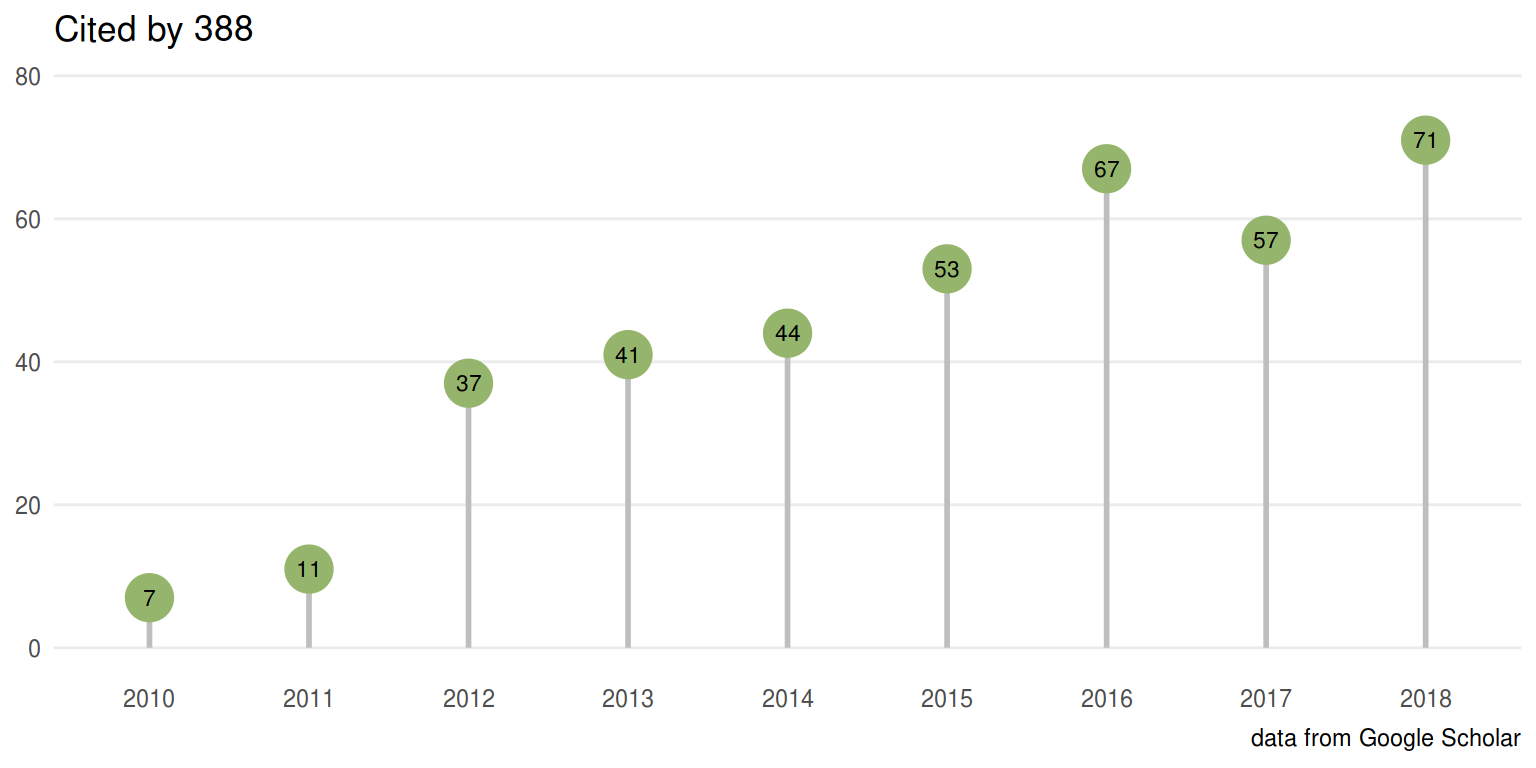
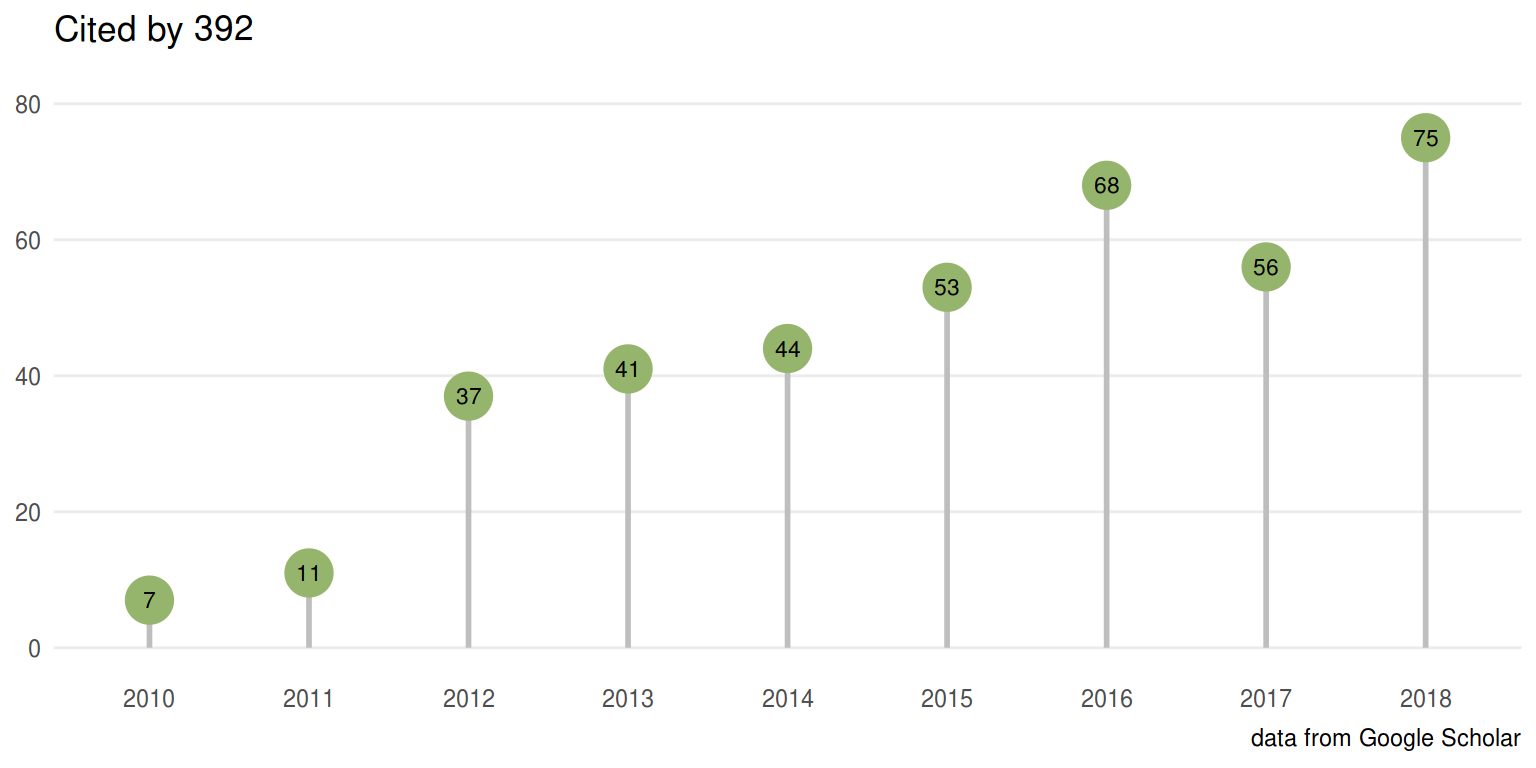
update

diff --git a/docs/GOSemSim/featured-articles/index.html b/docs/GOSemSim/featured-articles/index.html
@@ -10,7 +10,7 @@
     <meta name="viewport" content="width=device-width,user-scalable=no,initial-scale=1,maximum-scale=1">
     <meta http-equiv="X-UA-Compatible" content="IE=10" />
     <title>Featured Articles - GOSemSim</title>
-    <meta name="generator" content="Hugo 0.30.2" />
+    <meta name="generator" content="Hugo 0.31.1" />
 
     
     <meta name="description" content="GO semantic similarity measurement">
@@ -278,12 +278,14 @@
 		<div class="wrapper">
 			<h1>Featured Articles </h1>
 
-			<p><link rel="stylesheet" href="https://guangchuangyu.github.io/css/font-awesome.min.css"> <link rel="stylesheet" href="https://guangchuangyu.github.io/css/academicons.min.css"></p>
+			<p><link rel="stylesheet" href="https://guangchuangyu.github.io/css/font-awesome.min.css">
+<link rel="stylesheet" href="https://guangchuangyu.github.io/css/academicons.min.css"></p>
 <p><a href="https://github.com/GuangchuangYu/featured_img">Let us know</a> if you have published using <code>GOSemSim</code> and your publication will be featured here.</p>
 <p><img src="../featured-articles/index_files/figure-html/citation-1.png" width="768" /></p>
 <div id="disease-or-drug-analysis" class="section level2">
 <h2>Disease or Drug analysis</h2>
 <ul>
+<li><a href="https://www.ncbi.nlm.nih.gov/pmc/articles/PMC6204403/">Network and Pathway Analysis of Toxicogenomics Data</a>. <strong>Front Genet</strong>. 2018, 9:484.</li>
 <li><a href="http://dx.doi.org/10.4049/jimmunol.1501834">Regulatory T Cells Orchestrate Similar Immune Evasion of Fetuses and Tumors in Mice</a>. <strong>The Journal of Immunology</strong>. 2016, 196(2):678-690.</li>
 <li><a href="http://bioinformatics.oxfordjournals.org/content/31/4/608.short">DOSE: an R/Bioconductor package for disease ontology semantic and enrichment analysis</a>. <strong>Bioinformatics</strong>. 2015, 31(4):608-609.</li>
 <li><a href="http://nar.oxfordjournals.org/content/43/W1/W283.short">TFmiR: a web server for constructing and analyzing disease-specific transcription factor and miRNA co-regulatory networks</a>. <strong>Nucleic Acids Research</strong>. 2015, 43(W1):W283-W288.</li>
@@ -294,9 +296,10 @@
 <div id="geneprotein-functional-analysis" class="section level2">
 <h2>Gene/Protein functional analysis</h2>
 <ul>
+<li><a href="http://science.sciencemag.org/content/361/6403/eaar7191">Shifting the limits in wheat research and breeding using a fully annotated reference genome</a>. <strong>Science</strong>. 2018, 361(6403):eaar7191.</li>
 <li><a href="http://dx.doi.org/10.1186/s13024-016-0095-2">Network-driven plasma proteomics expose molecular changes in the Alzheimer’s brain</a>. <strong>Molecular Neurodegeneration</strong>. 2016, 11:31.</li>
 <li><a href="http://dx.doi.org/10.1371/journal.pcbi.1004892">Single-Cell Co-expression Analysis Reveals Distinct Functional Modules, Co-regulation Mechanisms and Clinical Outcomes</a>. <strong>PLOS Computational Biology</strong>. 2016, 12(4):e1004892.</li>
-<li><a href="http://dx.doi.org/10.1039/C5MB00881F%3E">Crosstalk of dynamic functional modules in lung development of rhesus macaques</a>. <strong>Mol. Biosyst.</strong>. 2016, 12:1342-1349.</li>
+<li><a href="http://dx.doi.org/10.1039/C5MB00881F">Crosstalk of dynamic functional modules in lung development of rhesus macaques</a>. <strong>Mol. Biosyst.</strong>. 2016, 12:1342-1349.</li>
 <li><a href="http://dx.doi.org/10.1186/s13059-016-0902-7">Comparative transcriptomics reveals the conserved building blocks involved in parallel evolution of diverse phenotypic traits in ants</a>. <strong>Genome Biology</strong>. 2016, 17:43.</li>
 <li><a href="http://bioinformatics.oxfordjournals.org/content/31/11/1857">protr/ProtrWeb: R package and web server for generating various numerical representation schemes of protein sequences</a>. <strong>Bioinformatics</strong>. 2015, 31(11):1857-1859.</li>
 <li><a href="http://bioinformatics.oxfordjournals.org/content/30/2/289.short">tRanslatome: an R/Bioconductor package to portray translational control</a>. <strong>Bioinformatics</strong>. 2014, 30(2):289-291.</li>
@@ -323,7 +326,8 @@
 <div id="protein-protein-interaction" class="section level3">
 <h3>Protein-Protein Interaction</h3>
 <ul>
-<li><a href="https://doi.org/10.1093/bib/bbx123">Critical assessment and performance improvement of plant–pathogen protein–protein interaction prediction methods</a>. *** Briefings in Bioinformatics***. 2017.</li>
+<li><a href="https://doi.org/10.1093/bib/bbx123">Critical assessment and performance improvement of plant–pathogen protein–protein interaction prediction methods</a>.
+*** Briefings in Bioinformatics***. 2017.</li>
 <li><a href="http://www.nature.com/nprot/journal/v11/n10/abs/nprot.2016.117.html">Analyzing and interpreting genome data at the network level with ConsensusPathDB</a>. <strong>Nature Protocols</strong>. 2016, 11:1889-1907.</li>
 <li><a href="http://dx.doi.org/10.1016/j.jtbi.2016.05.020%3E">Integration of multiple biological features yields high confidence human protein interactome</a>. <strong>Journal of Theoretical Biology</strong>. 2016, 403:85-96.</li>
 <li><a href="http://dx.doi.org/10.1039/C6MB00065G%3E">Computational prediction of virus–human protein–protein interactions using embedding kernelized heterogeneous data</a>. <strong>Mol. BioSyst</strong>. 2016, 12:1976-1986.</li>
@@ -347,6 +351,13 @@
 <li><p><a href="https://jclinbioinformatics.biomedcentral.com/articles/10.1186/2043-9113-1-15">Functional similarity analysis of human virus-encoded miRNAs</a>. <strong>Journal of Clinical Bioinformatics</strong>. 2011, 1:15.</p></li>
 </ul>
 </div>
+<div id="small-rna-interaction" class="section level3">
+<h3>small RNA interaction</h3>
+<ul>
+<li><p><a href="https://www.mdpi.com/2073-4409/7/11/194/htm">Inferring Novel Autophagy Regulators Based on Transcription Factors and Non-Coding RNAs Coordinated Regulatory Network</a>. <strong>Cell</strong>. 2018, 7(11), 194.</p></li>
+<li><p><a href="https://doi.org/10.1186/s12864-018-4993-2">Identification and characterization of ncRNA-associated ceRNA networks in Arabidopsis leaf development</a>. <strong>BMC Bioinformatics</strong>. 2018, 19:607.</p></li>
+</ul>
+</div>
 </div>
 <div id="cellular-localization" class="section level2">
 <h2>Cellular localization</h2>
@@ -363,8 +374,9 @@
 <div id="non-coding-rna" class="section level2">
 <h2>non-coding RNA</h2>
 <ul>
-<li><a href="http://nar.oxfordjournals.org/content/early/2016/10/12/nar.gkw909.full">Global and cell-type specific properties of lincRNAs with ribosome occupancy</a>. ** Nucl. Acids Res**. 2016.</li>
+<li><a href="http://nar.oxfordjournals.org/content/early/2016/10/12/nar.gkw909.full">Global and cell-type specific properties of lincRNAs with ribosome occupancy</a>. <strong>Nucl. Acids Res</strong>. 2016.</li>
 <li><a href="https://bib.oxfordjournals.org/content/early/2014/12/03/bib.bbu045.short">Advantages of mixing bioinformatics and visualization approaches for analyzing sRNA-mediated regulatory bacterial networks</a>. <strong>Briefings In Bioinformatics</strong>. 2015, 16(5):795-805.</li>
+<li><a href="https://link.springer.com/chapter/10.1007/978-981-13-0719-5_11">Prediction of Non-coding RNAs as Drug Targets</a>. <strong>Non-coding RNAs in Complex Diseases</strong>. 2018, 1094:109-115.</li>
 </ul>
 </div>
 <div id="semantic-similarity-analysis" class="section level2">
@@ -377,9 +389,12 @@
 <div id="reducing-go-term-redundancy" class="section level3">
 <h3>Reducing GO term redundancy</h3>
 <ul>
-<li><a href="http://dx.doi.org/10.1073/pnas.1715865115">Faulty neuronal determination and cell polarization are reverted by modulating HD early phenotypes</a> <strong><em>PNAS</em></strong>. 2017.</li>
-<li><a href="https://doi.org/10.1038/s41467-017-02185-w">EGFR feedback-inhibition by Ran-binding protein 6 is disrupted in cancer</a> <strong><em>Nature Communications</em></strong>. 2017, 8(1):2035.</li>
-<li><a href="http://advances.sciencemag.org/content/3/12/e1701211.full">Intracerebroventricular delivery of hematopoietic progenitors results in rapid and robust engraftment of microglia-like cells</a>. <strong><em>Science Advances</em></strong>. 2017, 3(12):e1701211.</li>
+<li><a href="http://dx.doi.org/10.1073/pnas.1715865115">Faulty neuronal determination and cell polarization are reverted by modulating HD early phenotypes</a>
+<strong><em>PNAS</em></strong>. 2017.</li>
+<li><a href="https://doi.org/10.1038/s41467-017-02185-w">EGFR feedback-inhibition by Ran-binding protein 6 is disrupted in cancer</a>
+<strong><em>Nature Communications</em></strong>. 2017, 8(1):2035.</li>
+<li><a href="http://advances.sciencemag.org/content/3/12/e1701211.full">Intracerebroventricular delivery of hematopoietic progenitors results in rapid and robust engraftment of microglia-like cells</a>.
+<strong><em>Science Advances</em></strong>. 2017, 3(12):e1701211.</li>
 </ul>
 </div>
 </div>

diff --git a/docs/GOSemSim/index.html b/docs/GOSemSim/index.html
@@ -10,7 +10,7 @@
     <meta name="viewport" content="width=device-width,user-scalable=no,initial-scale=1,maximum-scale=1">
     <meta http-equiv="X-UA-Compatible" content="IE=10" />
     <title>GOSemSim</title>
-    <meta name="generator" content="Hugo 0.49.2" />
+    <meta name="generator" content="Hugo 0.31.1" />
 
     
     <meta name="description" content="GO semantic similarity measurement">
@@ -281,10 +281,6 @@
 
 				<p><link rel="stylesheet" href="https://guangchuangyu.github.io/css/font-awesome.min.css">
 <link rel="stylesheet" href="https://guangchuangyu.github.io/css/academicons.min.css"></p>
-<p><a href="https://bioconductor.org/packages/GOSemSim"><img src="https://img.shields.io/badge/release%20version-2.6.2-blue.svg?style=flat" alt="releaseVersion" /></a>
-<a href="https://github.com/guangchuangyu/GOSemSim"><img src="https://img.shields.io/badge/devel%20version-2.7.1-blue.svg?style=flat" alt="develVersion" /></a>
-<a href="https://bioconductor.org/packages/stats/bioc/GOSemSim"><img src="https://img.shields.io/badge/downloads-96826/total-blue.svg?style=flat" alt="total" /></a>
-<a href="https://bioconductor.org/packages/stats/bioc/GOSemSim"><img src="https://img.shields.io/badge/downloads-3518/month-blue.svg?style=flat" alt="month" /></a></p>
 <p>The semantic comparisons of Gene Ontology (GO) annotations provide quantitative ways to compute similarities between genes and gene groups, and have became important basis for many bioinformatics analysis approaches. <code>GOSemSim</code> is an R package for semantic similarity computation among GO terms, sets of GO terms, gene products and gene clusters. <code>GOSemSim</code> implemented five methods proposed by <em>Resnik</em>, <em>Schlicker</em>, <em>Jiang</em>, <em>Lin</em> and <em>Wang</em> respectively.</p>
 <p><code>GOSemSim</code> is released within the <a href="https://bioconductor.org/packages/GOSemSim">Bioconductor</a> project and the source code is hosted on <a href="https://github.com/GuangchuangYu/GOSemSim"><i class="fa fa-github fa-lg"></i> GitHub</a>.</p>
 <div id="author" class="section level2">
@@ -300,9 +296,8 @@
 <div id="citation" class="section level2">
 <h2><i class="fa fa-book"></i> Citation</h2>
 <p>Please cite the following article when using <code>GOSemSim</code>:</p>
-<p><a href="http://dx.doi.org/10.1093/bioinformatics/btq064"><img src="https://img.shields.io/badge/doi-10.1093/bioinformatics/btq064-blue.svg?style=flat" alt="doi" /></a>
-<a href="https://www.altmetric.com/details/100979"><img src="https://img.shields.io/badge/Altmetric-19-blue.svg?style=flat" alt="Altmetric" /></a>
-<a href="https://scholar.google.com.hk/scholar?oi=bibs&amp;hl=en&amp;cites=9484177541993722322"><img src="https://img.shields.io/badge/cited%20by-388-blue.svg?style=flat" alt="citation" /></a></p>
+<p><a href="https://doi.org/10.1093/bioinformatics/btq064"><img src="https://img.shields.io/badge/doi-10.1093/bioinformatics/btq064-blue.svg" /></a></p>
+<p><a href="https://scholar.google.com.hk/scholar?oi=bibs&amp;hl=en&amp;cites=9484177541993722322"><img src="https://img.shields.io/badge/cited%20by-392-blue.svg?style=flat" alt="citation" /></a></p>
 <p><strong>Yu G</strong><sup>†</sup>, Li F<sup>†</sup>, Qin Y, Bo X<sup>*</sup>, Wu Y and Wang S<sup>*</sup>.
 GOSemSim: an R package for measuring semantic similarity among GO terms and gene products.
 <strong><em>Bioinformatics</em></strong>. 2010, 26(7):976-978.</p>
@@ -373,24 +368,6 @@ biocLite(&quot;GOSemSim&quot;)</code></pre>
 </div>
 <div id="projects-that-depend-on-gosemsim" class="section level2">
 <h2><i class="fa fa-code-fork"></i> Projects that depend on <em>GOSemSim</em></h2>
-<div id="cran-packages" class="section level4">
-<h4><i class="fa fa-angle-double-right"></i> CRAN packages</h4>
-<ul>
-<li><a href="https://cran.r-project.org/package=BiSEp">BiSEp</a>: Toolkit to Identify Candidate Synthetic Lethality</li>
-<li><a href="https://cran.r-project.org/package=LANDD">LANDD</a>: Liquid Association for Network Dynamics Detection</li>
-</ul>
-</div>
-<div id="bioconductor-packages" class="section level4">
-<h4><i class="fa fa-angle-double-right"></i> Bioconductor packages</h4>
-<ul>
-<li><a href="https://www.bioconductor.org/packages/clusterProfiler">clusterProfiler</a>: statistical analysis and visualization of functional profiles for genes and gene clusters</li>
-<li><a href="https://www.bioconductor.org/packages/DOSE">DOSE</a>: Disease Ontology Semantic and Enrichment analysis</li>
-<li><a href="https://www.bioconductor.org/packages/enrichplot">enrichplot</a>: Visualization of Functional Enrichment Result</li>
-<li><a href="https://www.bioconductor.org/packages/meshes">meshes</a>: MeSH Enrichment and Semantic analyses</li>
-<li><a href="https://www.bioconductor.org/packages/Rcpi">Rcpi</a>: Molecular Informatics Toolkit for Compound-Protein Interaction in Drug Discovery</li>
-<li><a href="https://www.bioconductor.org/packages/tRanslatome">tRanslatome</a>: Comparison between multiple levels of gene expression</li>
-</ul>
-</div>
 </div>
 <div id="feedback" class="section level2">
 <h2><i class="fa fa-comment"></i> Feedback</h2>
@@ -435,14 +412,14 @@ biocLite(&quot;GOSemSim&quot;)</code></pre>
   
 
   <div class="next">
-      <a href="https://guangchuangyu.github.io/software/GOSemSim/" title="GOSemSim">
+      <a href="https://guangchuangyu.github.io/software/GOSemSim/documentation/" title="Documentation">
         <span class="direction">
           Next
         </span>
         <div class="page">
           <div class="stretch">
             <div class="title">
-              GOSemSim
+              Documentation
             </div>
           </div>
           <div class="button button-next" role="button" aria-label="Next">

diff --git a/wGOSemSim/content/index.html b/wGOSemSim/content/index.html
@@ -9,10 +9,6 @@ weight: 1
 
 <p><link rel="stylesheet" href="https://guangchuangyu.github.io/css/font-awesome.min.css">
 <link rel="stylesheet" href="https://guangchuangyu.github.io/css/academicons.min.css"></p>
-<p><a href="https://bioconductor.org/packages/GOSemSim"><img src="https://img.shields.io/badge/release%20version-2.6.2-blue.svg?style=flat" alt="releaseVersion" /></a>
-<a href="https://github.com/guangchuangyu/GOSemSim"><img src="https://img.shields.io/badge/devel%20version-2.7.1-blue.svg?style=flat" alt="develVersion" /></a>
-<a href="https://bioconductor.org/packages/stats/bioc/GOSemSim"><img src="https://img.shields.io/badge/downloads-96826/total-blue.svg?style=flat" alt="total" /></a>
-<a href="https://bioconductor.org/packages/stats/bioc/GOSemSim"><img src="https://img.shields.io/badge/downloads-3518/month-blue.svg?style=flat" alt="month" /></a></p>
 <p>The semantic comparisons of Gene Ontology (GO) annotations provide quantitative ways to compute similarities between genes and gene groups, and have became important basis for many bioinformatics analysis approaches. <code>GOSemSim</code> is an R package for semantic similarity computation among GO terms, sets of GO terms, gene products and gene clusters. <code>GOSemSim</code> implemented five methods proposed by <em>Resnik</em>, <em>Schlicker</em>, <em>Jiang</em>, <em>Lin</em> and <em>Wang</em> respectively.</p>
 <p><code>GOSemSim</code> is released within the <a href="https://bioconductor.org/packages/GOSemSim">Bioconductor</a> project and the source code is hosted on <a href="https://github.com/GuangchuangYu/GOSemSim"><i class="fa fa-github fa-lg"></i> GitHub</a>.</p>
 <div id="author" class="section level2">
@@ -28,9 +24,8 @@ weight: 1
 <div id="citation" class="section level2">
 <h2><i class="fa fa-book"></i> Citation</h2>
 <p>Please cite the following article when using <code>GOSemSim</code>:</p>
-<p><a href="http://dx.doi.org/10.1093/bioinformatics/btq064"><img src="https://img.shields.io/badge/doi-10.1093/bioinformatics/btq064-blue.svg?style=flat" alt="doi" /></a>
-<a href="https://www.altmetric.com/details/100979"><img src="https://img.shields.io/badge/Altmetric-19-blue.svg?style=flat" alt="Altmetric" /></a>
-<a href="https://scholar.google.com.hk/scholar?oi=bibs&amp;hl=en&amp;cites=9484177541993722322"><img src="https://img.shields.io/badge/cited%20by-388-blue.svg?style=flat" alt="citation" /></a></p>
+<p><a href="https://doi.org/10.1093/bioinformatics/btq064"><img src="https://img.shields.io/badge/doi-10.1093/bioinformatics/btq064-blue.svg" /></a></p>
+<p><a href="https://scholar.google.com.hk/scholar?oi=bibs&amp;hl=en&amp;cites=9484177541993722322"><img src="https://img.shields.io/badge/cited%20by-392-blue.svg?style=flat" alt="citation" /></a></p>
 <p><strong>Yu G</strong><sup>†</sup>, Li F<sup>†</sup>, Qin Y, Bo X<sup>*</sup>, Wu Y and Wang S<sup>*</sup>.
 GOSemSim: an R package for measuring semantic similarity among GO terms and gene products.
 <strong><em>Bioinformatics</em></strong>. 2010, 26(7):976-978.</p>
@@ -101,24 +96,6 @@ biocLite(&quot;GOSemSim&quot;)</code></pre>
 </div>
 <div id="projects-that-depend-on-gosemsim" class="section level2">
 <h2><i class="fa fa-code-fork"></i> Projects that depend on <em>GOSemSim</em></h2>
-<div id="cran-packages" class="section level4">
-<h4><i class="fa fa-angle-double-right"></i> CRAN packages</h4>
-<ul>
-<li><a href="https://cran.r-project.org/package=BiSEp">BiSEp</a>: Toolkit to Identify Candidate Synthetic Lethality</li>
-<li><a href="https://cran.r-project.org/package=LANDD">LANDD</a>: Liquid Association for Network Dynamics Detection</li>
-</ul>
-</div>
-<div id="bioconductor-packages" class="section level4">
-<h4><i class="fa fa-angle-double-right"></i> Bioconductor packages</h4>
-<ul>
-<li><a href="https://www.bioconductor.org/packages/clusterProfiler">clusterProfiler</a>: statistical analysis and visualization of functional profiles for genes and gene clusters</li>
-<li><a href="https://www.bioconductor.org/packages/DOSE">DOSE</a>: Disease Ontology Semantic and Enrichment analysis</li>
-<li><a href="https://www.bioconductor.org/packages/enrichplot">enrichplot</a>: Visualization of Functional Enrichment Result</li>
-<li><a href="https://www.bioconductor.org/packages/meshes">meshes</a>: MeSH Enrichment and Semantic analyses</li>
-<li><a href="https://www.bioconductor.org/packages/Rcpi">Rcpi</a>: Molecular Informatics Toolkit for Compound-Protein Interaction in Drug Discovery</li>
-<li><a href="https://www.bioconductor.org/packages/tRanslatome">tRanslatome</a>: Comparison between multiple levels of gene expression</li>
-</ul>
-</div>
 </div>
 <div id="feedback" class="section level2">
 <h2><i class="fa fa-comment"></i> Feedback</h2>

diff --git a/wGOSemSim/content/featured-articles/index.html b/wGOSemSim/content/featured-articles/index.html
@@ -13,6 +13,7 @@ weight: 30
 <div id="disease-or-drug-analysis" class="section level2">
 <h2>Disease or Drug analysis</h2>
 <ul>
+<li><a href="https://www.ncbi.nlm.nih.gov/pmc/articles/PMC6204403/">Network and Pathway Analysis of Toxicogenomics Data</a>. <strong>Front Genet</strong>. 2018, 9:484.</li>
 <li><a href="http://dx.doi.org/10.4049/jimmunol.1501834">Regulatory T Cells Orchestrate Similar Immune Evasion of Fetuses and Tumors in Mice</a>. <strong>The Journal of Immunology</strong>. 2016, 196(2):678-690.</li>
 <li><a href="http://bioinformatics.oxfordjournals.org/content/31/4/608.short">DOSE: an R/Bioconductor package for disease ontology semantic and enrichment analysis</a>. <strong>Bioinformatics</strong>. 2015, 31(4):608-609.</li>
 <li><a href="http://nar.oxfordjournals.org/content/43/W1/W283.short">TFmiR: a web server for constructing and analyzing disease-specific transcription factor and miRNA co-regulatory networks</a>. <strong>Nucleic Acids Research</strong>. 2015, 43(W1):W283-W288.</li>
@@ -81,8 +82,8 @@ weight: 30
 <div id="small-rna-interaction" class="section level3">
 <h3>small RNA interaction</h3>
 <ul>
-<li><a href="https://www.mdpi.com/2073-4409/7/11/194/htm">Inferring Novel Autophagy Regulators Based on Transcription Factors and Non-Coding RNAs Coordinated Regulatory Network</a>. <strong>Cell</strong>. 2018, 7(11), 194.</li>
-<li><a href="https://doi.org/10.1186/s12864-018-4993-2">Identification and characterization of ncRNA-associated ceRNA networks in Arabidopsis leaf development</a>. <strong>BMC Bioinformatics</strong>. 2018, 19:607.</li>
+<li><p><a href="https://www.mdpi.com/2073-4409/7/11/194/htm">Inferring Novel Autophagy Regulators Based on Transcription Factors and Non-Coding RNAs Coordinated Regulatory Network</a>. <strong>Cell</strong>. 2018, 7(11), 194.</p></li>
+<li><p><a href="https://doi.org/10.1186/s12864-018-4993-2">Identification and characterization of ncRNA-associated ceRNA networks in Arabidopsis leaf development</a>. <strong>BMC Bioinformatics</strong>. 2018, 19:607.</p></li>
 </ul>
 </div>
 </div>

diff --git a/docs/GOSemSim/documentation/index.html b/docs/GOSemSim/documentation/index.html
@@ -10,7 +10,7 @@
     <meta name="viewport" content="width=device-width,user-scalable=no,initial-scale=1,maximum-scale=1">
     <meta http-equiv="X-UA-Compatible" content="IE=10" />
     <title>Documentation - GOSemSim</title>
-    <meta name="generator" content="Hugo 0.30.2" />
+    <meta name="generator" content="Hugo 0.31.1" />
 
     
     <meta name="description" content="GO semantic similarity measurement">
